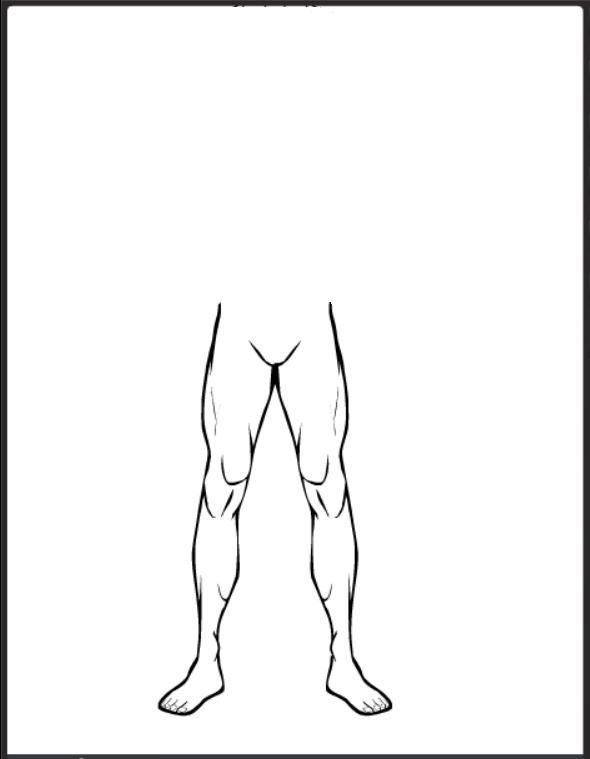
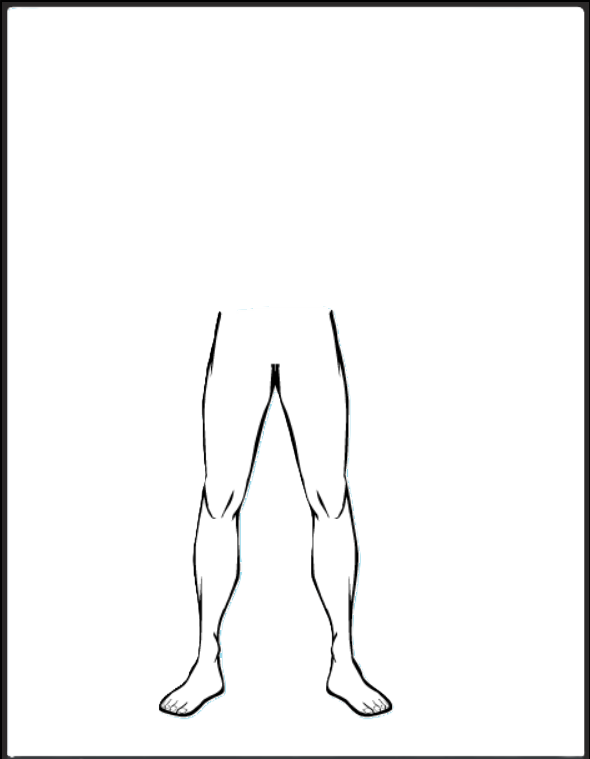
feat: torso, brutal and titan

Changed region(s): [[0.0, 0.0, 1.0, 1.0], [0.5492, 0.3939, 0.5797, 0.4242], [0.3661, 0.3939, 0.3966, 0.4242]]

diff --git a/src/components/InventoryScreen/InventoryScreen.tsx b/src/components/InventoryScreen/InventoryScreen.tsx
@@ -8,6 +8,8 @@ import { ICharacher } from '../../enums-and-interfaces/interfaces';
 import { createEmptyInventory, createNoItem } from '../../helpers/emptyEssencesCreators';
 import wizardItems from '../../general/wizardItems';
 import guildItems from '../../general/guildItems';
+import rituals from '../../general/rituals/rituals';
+import masteries from '../../general/masteries/masteries';
 
 function InventoryScreen(props: {
     character: ICharacher,
@@ -15,7 +17,9 @@ function InventoryScreen(props: {
 }) {
     const {character, battle} = props;
     const {general, params} = character;
+    const masteriesUserNames = general.mind.masteries.map(mastery => mastery.name);
     const powersUserNames = general.mind.powers.map(power => power.name);
+    const ritualsUserNames = general.mind.rituals.map(ritual => ritual.name);
     const inventory = general.inventory ? general.inventory : createEmptyInventory();
 
     const width = battle ? '150px' : '355px';
@@ -42,17 +46,21 @@ function InventoryScreen(props: {
             break;
     }
 
-    let inventoryLegs = null;
+    let inventoryLegs = [];
     switch (inventory.legs.name) {
         case mutations.other.mutation_hooves.name:
-            inventoryLegs = <img src={images.bodyElements.hooves} alt={chrome.i18n.getMessage('hooves')} />;
+            inventoryLegs.push(<img src={images.bodyElements.hooves} alt={chrome.i18n.getMessage('hooves')} />);
             break;
         case mutations.weapons.mutation_raptorLegs.name:
-            inventoryLegs = <img src={images.bodyElements.raptorLegs} alt={chrome.i18n.getMessage('raptor_legs')} />;
+            inventoryLegs.push(<img src={images.bodyElements.raptorLegs} alt={chrome.i18n.getMessage('raptor_legs')} />);
             break;
         default:
             inventoryLegs = [
-                <img src={images.bodyElements.legs} alt='legs' />,
+                ritualsUserNames.includes(rituals.ritual_titanSkin.name) ?
+                    <img src={images.bodyElements.titanLegs} alt='titanLegs' /> :
+                    masteriesUserNames.includes(masteries.mastery_brutalForce.name) ?
+                        <img src={images.bodyElements.brutalLegs} alt='brutalLegs' /> :
+                        <img src={images.bodyElements.legs} alt='legs' />,
                 powersUserNames.includes(powers.other.power_levitation.name) ?
                     <img src={images.bodyElements.levitation} alt={chrome.i18n.getMessage('levitation')} /> : null,
                 inventory.skin.name === cybers.armors.cyber_nanoMatrix.name ?
@@ -81,7 +89,11 @@ function InventoryScreen(props: {
             break;
         default:
             inventorySkin = [
-                <img src={images.bodyElements.torso} alt='torso' />,
+                ritualsUserNames.includes(rituals.ritual_titanSkin.name) ?
+                    <img src={images.bodyElements.titanTorso} alt='titanTorso' /> :
+                    masteriesUserNames.includes(masteries.mastery_brutalForce.name) ?
+                        <img src={images.bodyElements.brutalTorso} alt='brutalTorso' /> :
+                        <img src={images.bodyElements.torso} alt='torso' />,
                 powersUserNames.includes(powers.armors.power_guardianAura.name) ?
                     <img src={images.bodyElements.guardianAura} alt={chrome.i18n.getMessage('guardian_aura')} /> :
                     powersUserNames.includes(powers.armors.power_guardianField.name) ?

diff --git a/src/images/bodyElements/bodyElements.js b/src/images/bodyElements/bodyElements.js
@@ -5,6 +5,8 @@ import apprenticeRod from './apprenticeRod.png';
 import axeRightHand from './axeRightHand.png';
 import axeLeftHand from './axeLeftHand.png';
 import belt from './belt.png';
+import brutalLegs from './brutalLegs.png';
+import brutalTorso from './brutalTorso.png';
 import chakram from './chakram.png';
 import clawLeft from './clawLeft.png';
 import clawRight from './clawRight.png';
@@ -56,6 +58,8 @@ import steelSwordLeftHand from './steelSwordLeftHand.png';
 import steelSwordRightHand from './steelSwordRightHand.png';
 import tailWithSting from './tailWithSting.png';
 import telekinesis from './telekinesis.png';
+import titanLegs from './titanLegs.png';
+import titanTorso from './titanTorso.png';
 import torso from './torso.png';
 import wings from './wings.png';
 
@@ -67,6 +71,8 @@ const bodyElements = {
     axeRightHand,
     axeLeftHand,
     belt,
+    brutalLegs,
+    brutalTorso,
     chakram,
     clawLeft,
     clawRight,
@@ -118,6 +124,8 @@ const bodyElements = {
     steelSwordRightHand,
     tailWithSting,
     telekinesis,
+    titanLegs,
+    titanTorso,
     torso,
     wings
 }

diff --git a/src/components/BendingScreen/BendingScreen.tsx b/src/components/BendingScreen/BendingScreen.tsx
@@ -18,7 +18,7 @@ function BendingScreen(props: {
 
     const {screenName} = props;
     const stage = useSelector((store: IStore) => store.gameStage[screenName].stage);
-    const bendingOptions = useSelector((store: IStore) => store.gameStage[screenName].options[stage]);
+    const bendingOptions = useSelector((store: IStore) => store.gameStage[screenName].options?.[stage]);
 
     const dispatch = useDispatch();
 
@@ -96,9 +96,9 @@ function BendingScreen(props: {
             </h3>
             <div className={styles.BendingScreen_body}>
                 {
-                    bendingOptions.map(bending => 
+                    bendingOptions && bendingOptions.map(bending => 
                          <BendingScreenItem 
-                            bending={bending}
+                            bending={bending as IBending}
                             buttonText={bendingMappings[screenName].button}
                             listener={bendingMappings[screenName].listener}
                             screenName={screenName}

diff --git a/src/components/SubMindScreen/SubMindScreen.tsx b/src/components/SubMindScreen/SubMindScreen.tsx
@@ -1,6 +1,6 @@
 import { useSelector } from 'react-redux';
 import styles from './SubMindScreen.module.css';
-import { IMastery, IPower, ISpell, IStore, ISubMindMapping } from '../../enums-and-interfaces/interfaces';
+import { IMastery, IPower, IRitual, ISpell, IStore, ISubMindMapping } from '../../enums-and-interfaces/interfaces';
 import { useDispatch } from 'react-redux';
 import gameSquad from '../../redux/slices/gameSquad';
 import { MindGameScreens, UserParam } from '../../enums-and-interfaces/enums';
@@ -21,7 +21,8 @@ function SubMindScreen(props: {
 
     const {screenName} = props;
     const stage = useSelector((store: IStore) => store.gameStage[screenName].stage);
-    const dataAll = useSelector((store: IStore) => store.gameStage[screenName].options[stage]);
+    const dataAll = useSelector((store: IStore) => 
+        store.gameStage[screenName].options?.[stage]) as (IMastery | IPower | ISpell | IRitual)[];
 
     const dispatch = useDispatch();
 

diff --git a/src/components/SubInventoryScreen/SubInventoryScreen.tsx b/src/components/SubInventoryScreen/SubInventoryScreen.tsx
@@ -34,7 +34,8 @@ function SubInventoryScreen(props: {
 
     const {screenName} = props;
     const stage = useSelector((store: IStore) => store.gameStage[screenName].stage);
-    const data = useSelector((store: IStore) => store.gameStage[screenName].options[stage]);
+    const data = useSelector((store: IStore) => 
+        store.gameStage[screenName].options?.[stage]) as (IItem | ICyber | IMutation)[];
 
     const dispatch = useDispatch();
 
